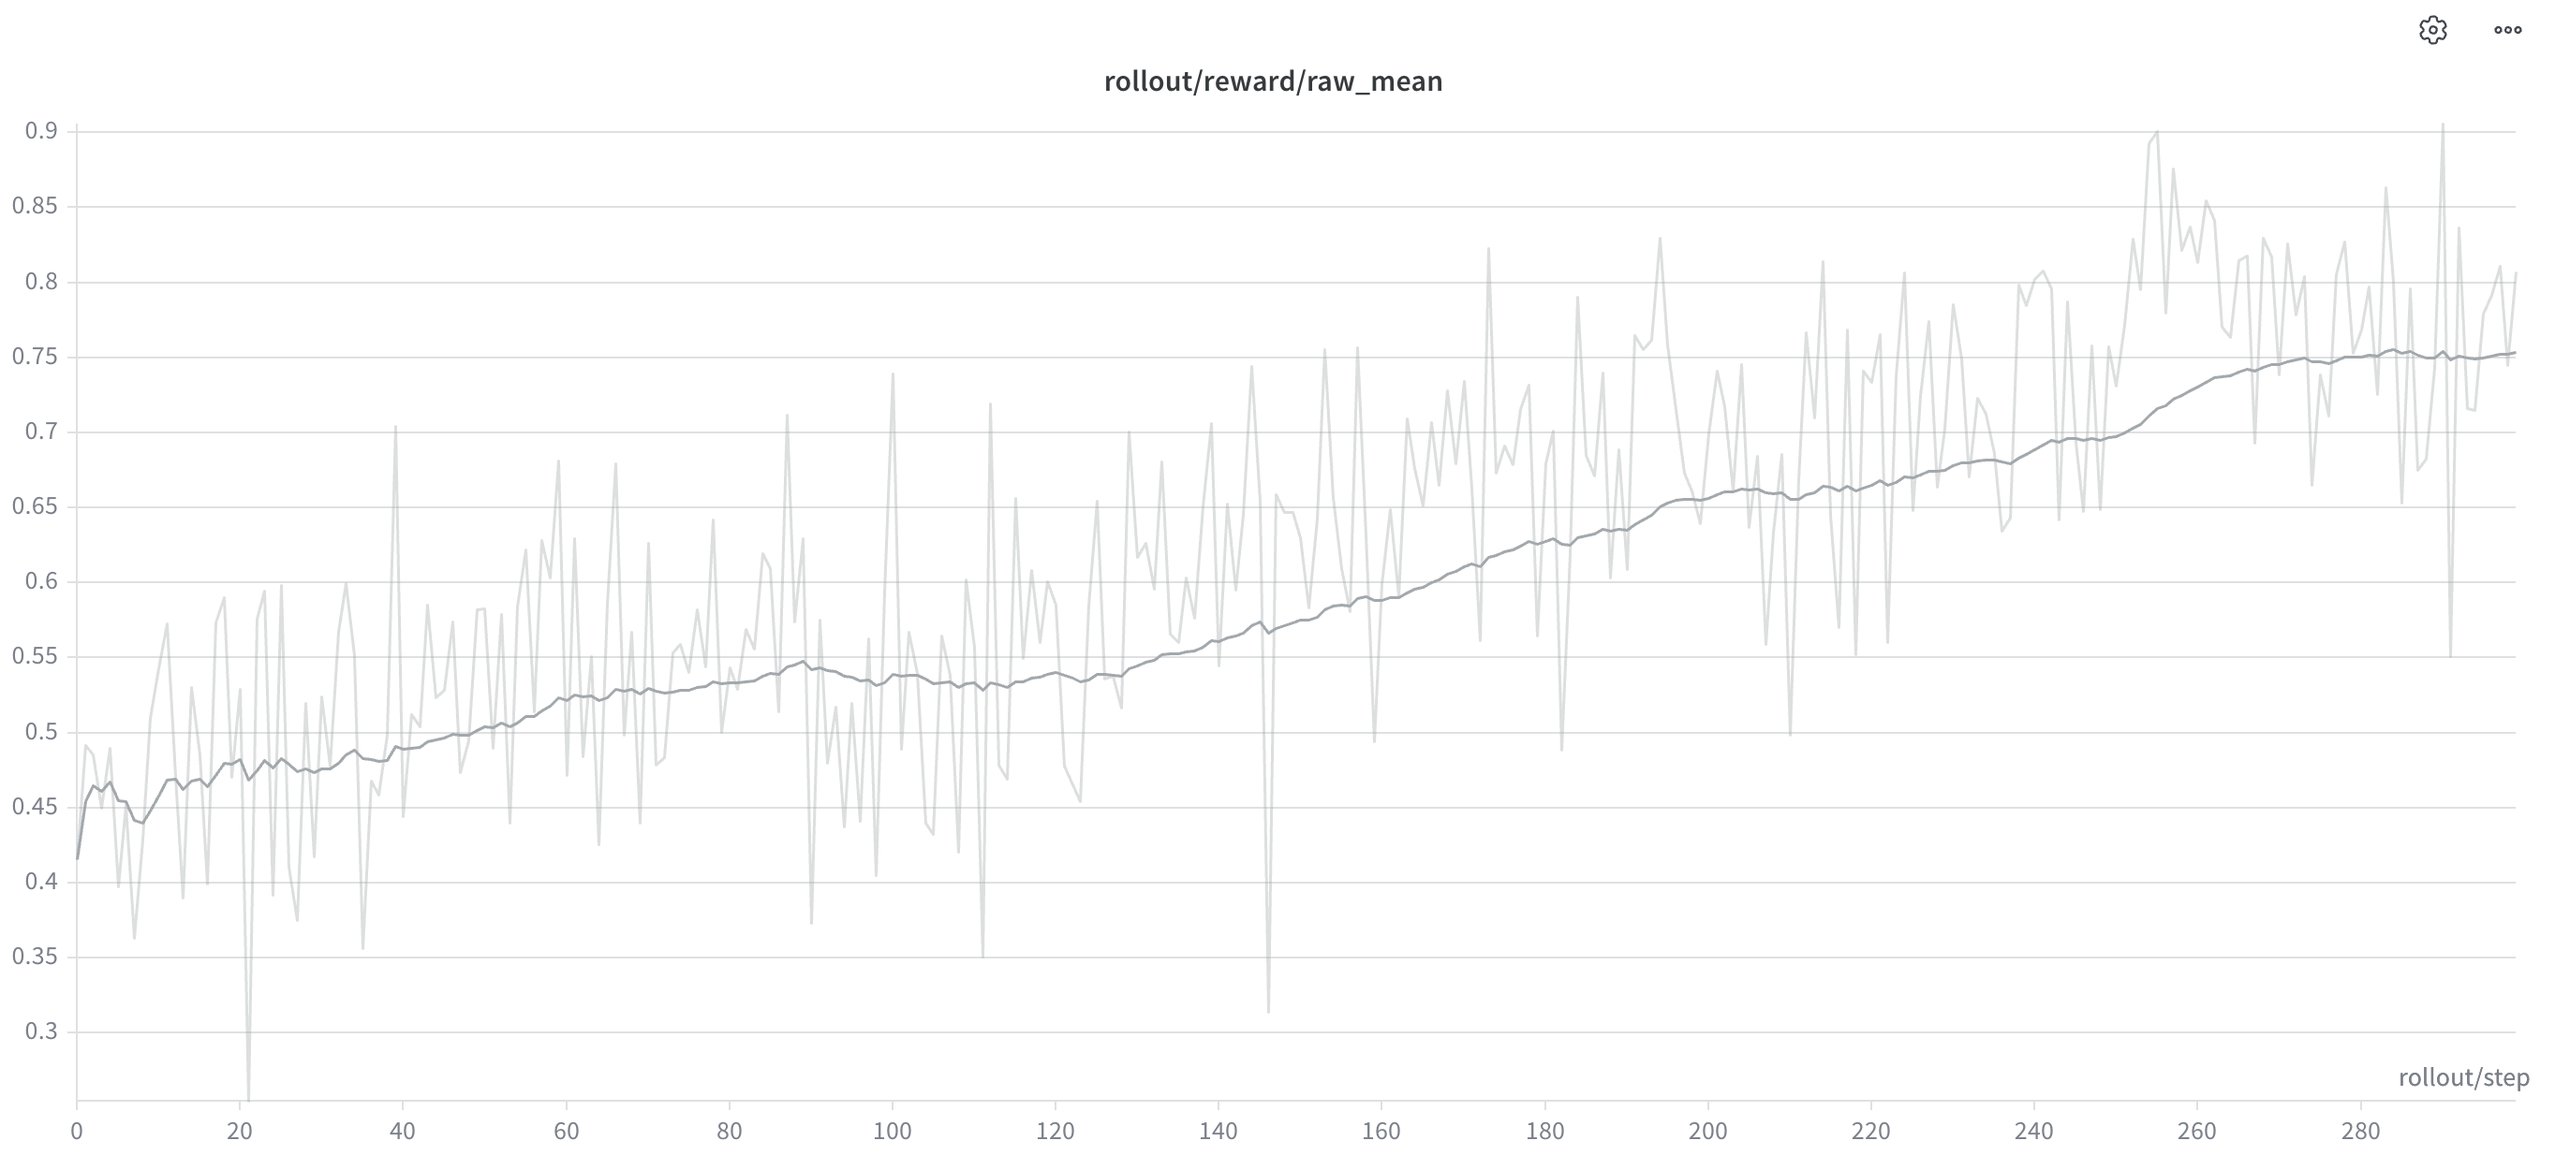
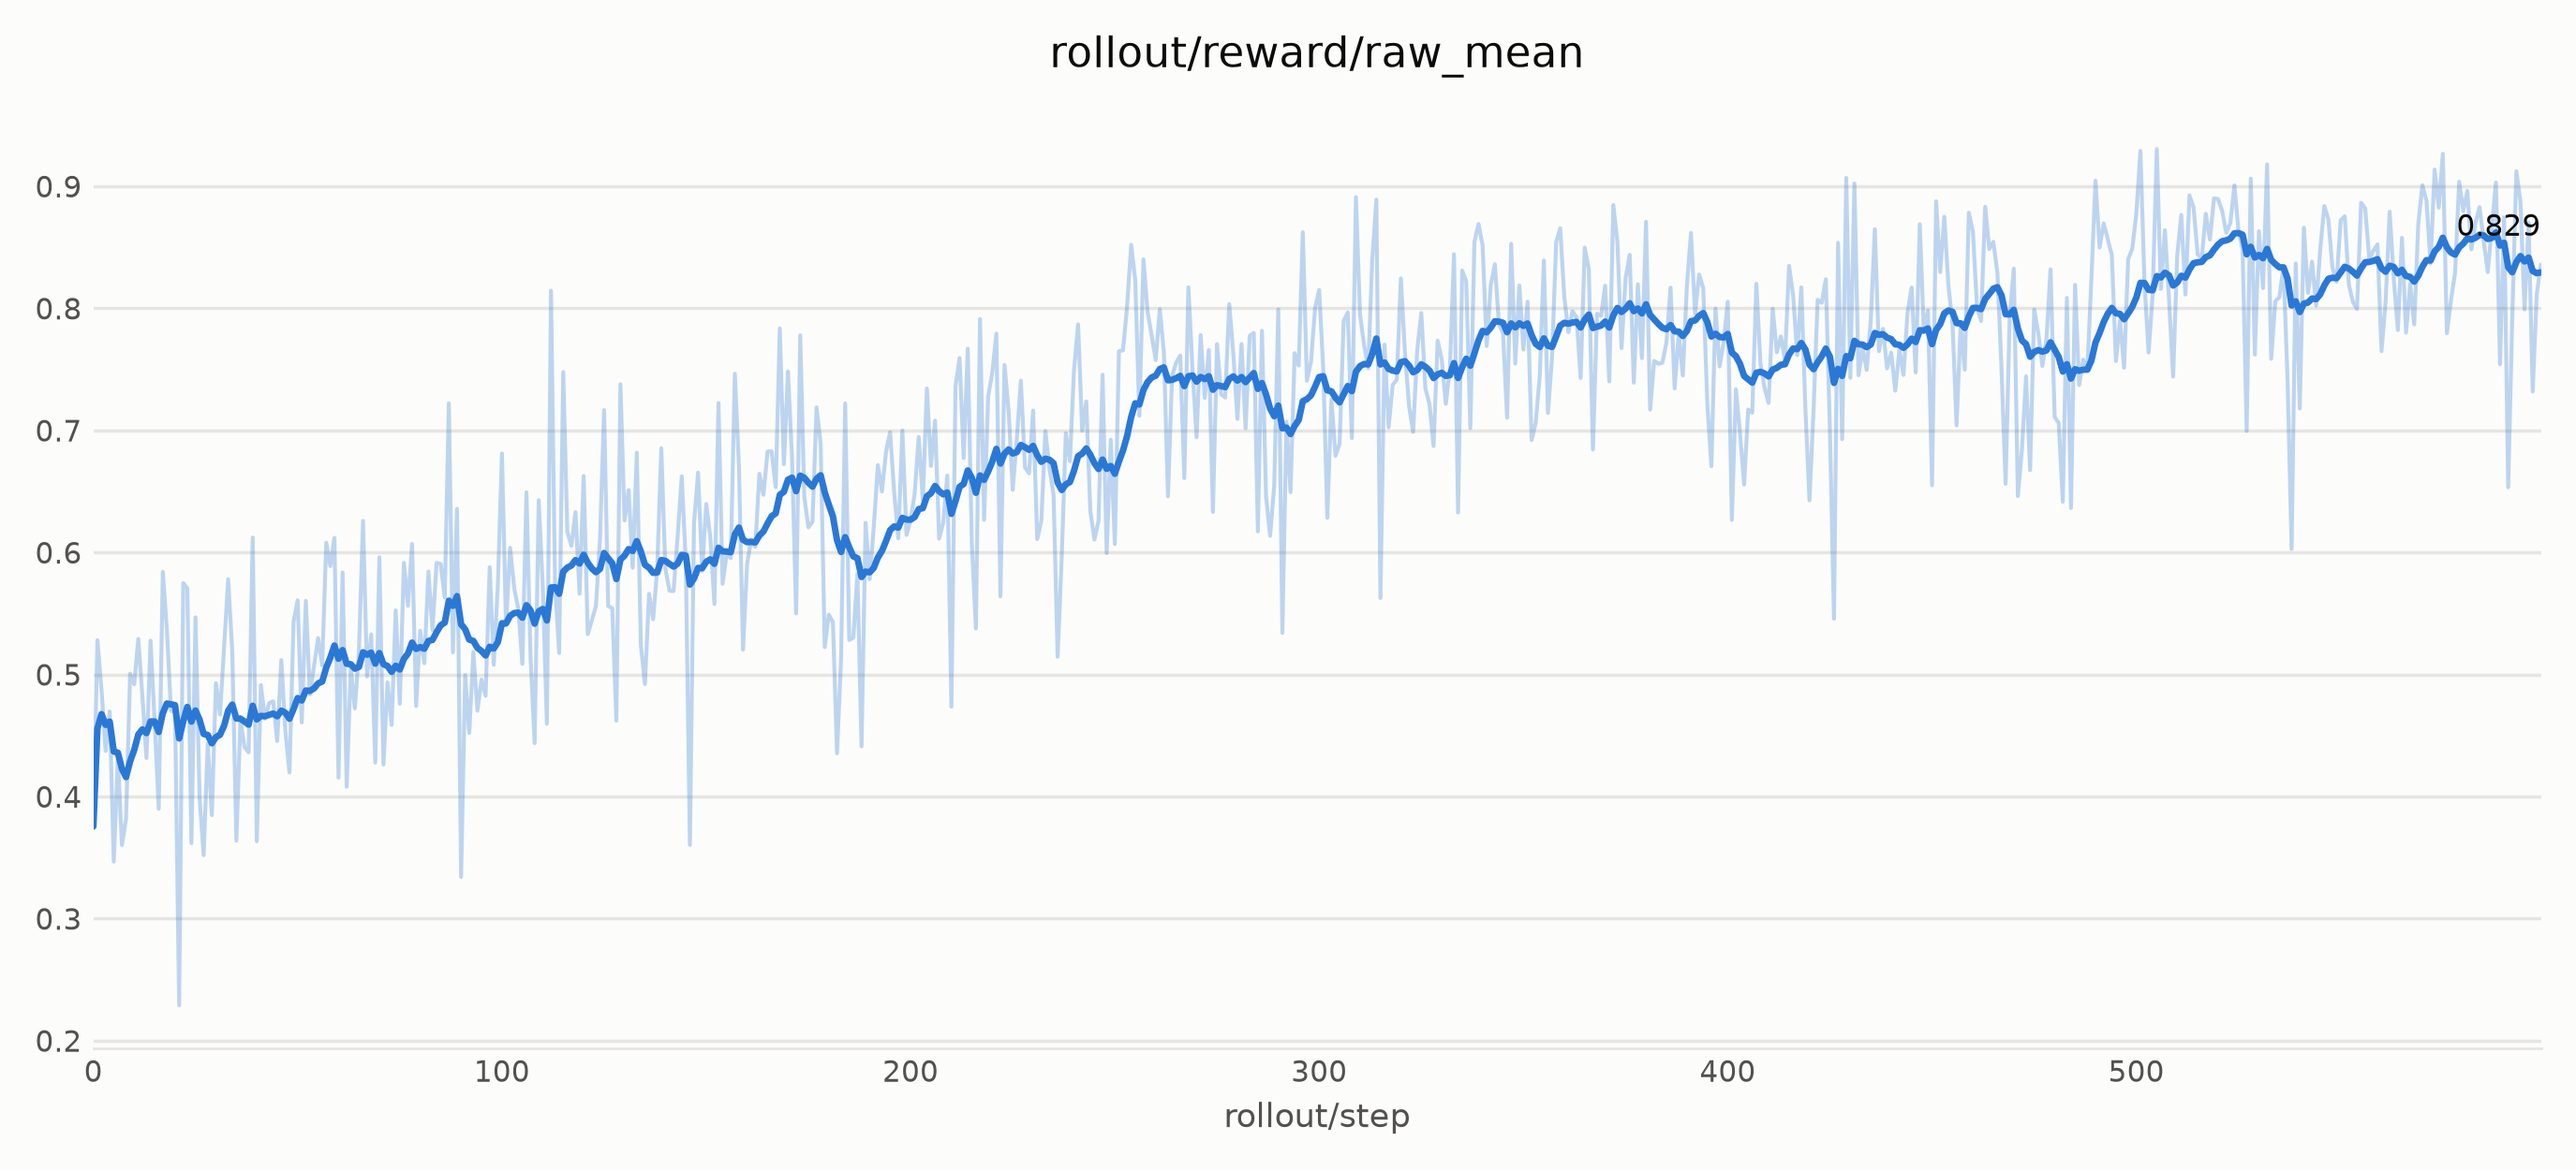
docs: update Qwen-Image and SD3 recipe curves on sglang-miles (#262)
* docs(qwen-image): add the 400-rollout Flow-GRPO PickScore reference results on sglang-miles

* docs(sd3): refresh the Flow-GRPO OCR reference curve on sglang-miles

* docs(sd3): drop the wandb run link from the DiffusionNFT reference results

* chore(wandb): replace the wandb docs link above init_wandb_secondary with what it does

---------

diff --git a/miles/utils/wandb_utils.py b/miles/utils/wandb_utils.py
@@ -92,7 +92,7 @@ def _compute_config_for_logging(args):
     return output
 
 
-# https://docs.wandb.ai/guides/track/log/distributed-training/#track-all-processes-to-a-single-run
+# Online, joins the primary's run in shared mode so every process logs to one run.
 def init_wandb_secondary(args, router_addr=None):
     wandb_run_id = args.wandb_run_id
     if wandb_run_id is None:

diff --git a/docs/models/sd3/sd3.md b/docs/models/sd3/sd3.md
@@ -293,12 +293,10 @@ Train/rollout dtype alignment for Flow-GRPO is covered in
 ### Flow-GRPO + OCR
 
 Observed `rollout/reward/raw_mean` from one
-`scripts/run_diffusion_grpo_sd3_ocr_sglang.py` run (default batch, 600 rollouts). The curve is an example, not a CI
-acceptance range:
+`scripts/run_diffusion_grpo_sd3_ocr_sglang.py` run (default batch, 600 rollouts): the mean of the first 50 rollouts
+is 0.462 and of the last 50 is 0.841. The curve is an example, not a CI acceptance range:
 
 ![Flow-GRPO OCR raw reward](../../assets/images/sd3/grpo-ocr-raw-reward.png)
-
-Online runs: wandb project **`miles-diffusion-grpo`**.
 
 ### Flow-GRPO + OCR & PickScore
 
@@ -317,7 +315,7 @@ Observed `rollout/reward/raw_mean` from one `scripts/run_diffusion_nft_sd3_picks
 
 ![DiffusionNFT PickScore raw reward](../../assets/images/sd3/nft-pickscore-raw-reward.png)
 
-Online run: [wandb](https://wandb.ai/radixarkai/miles-diffusion-CIs/runs/7nnabqkr). That run observed held-out
+That run observed held-out
 **`eval/pickscore_test` 0.850 / 0.859 / 0.863** at rollouts 29 / 59 / 89 with `--eval-interval 30` and 50 denoise steps
 at eval time; these values are not asserted by the E2E fixture.
 

diff --git a/docs/models/qwen-image/qwen-image.md b/docs/models/qwen-image/qwen-image.md
@@ -67,7 +67,14 @@ Overrides go through the dataclass CLI, e.g.
 - `--rollout-patch-group sgld` applies the diffusers-op-parity patches on the engine. It costs a
   little rollout throughput and buys a much smaller `train/log_prob_mean_abs_diff`.
 
-## 6. Pairs well with
+## 6. Reference results
+
+The 5-GPU recipe raises PickScore (`rollout/reward/raw_mean`) from ~0.84 to ~0.90 over 400 rollouts;
+held-out `eval/pickscore_test` goes from 0.859 to 0.900:
+
+![Qwen-Image PickScore reward mean](../../assets/images/qwen-image/grpo-pickscore-raw-reward.png)
+
+## 7. Pairs well with
 
 - [LoRA weight sync](../../advanced/lora.md) — `--lora-ipc-weight-sync` is on in this recipe.
 - [Dtype Control](../../advanced/dtype-control.md) — why fp32 master + bf16 forward.
